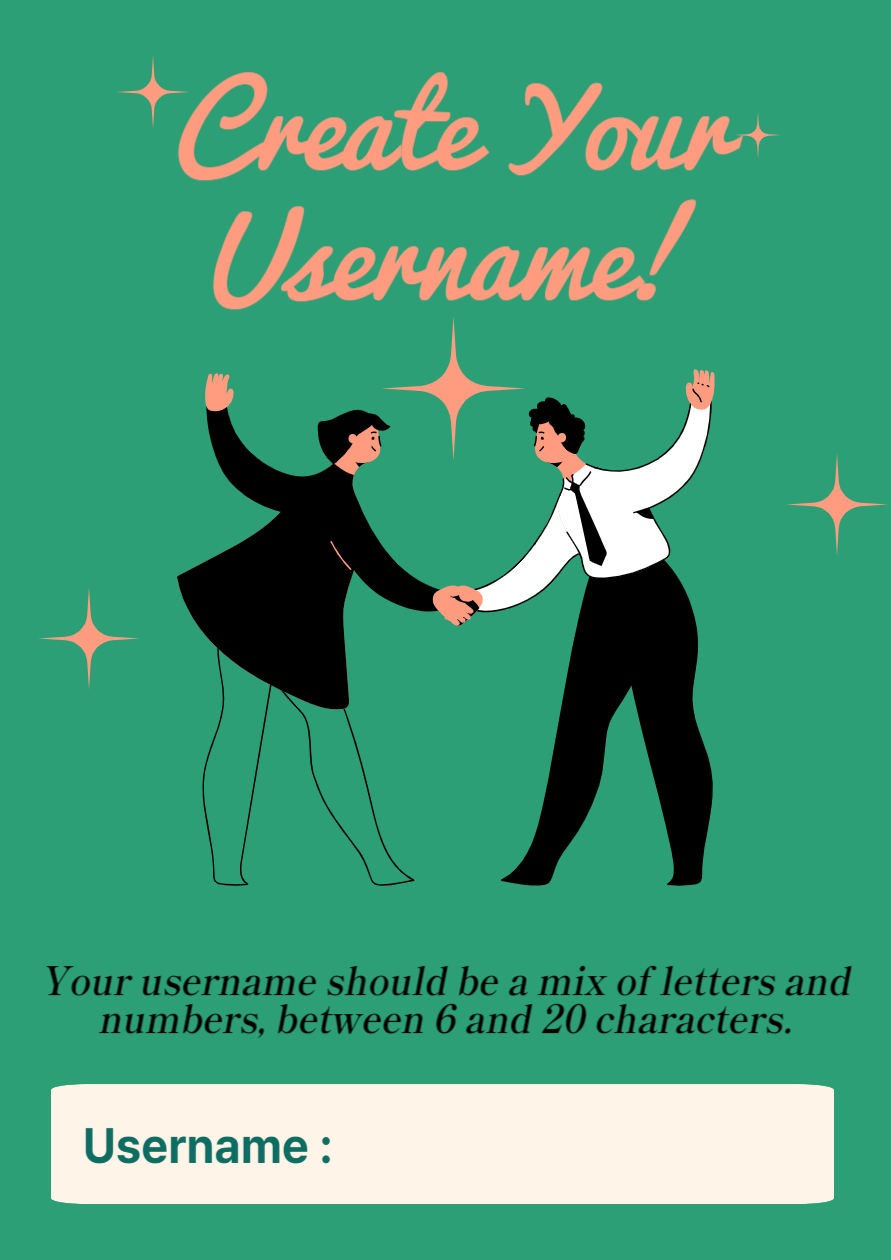
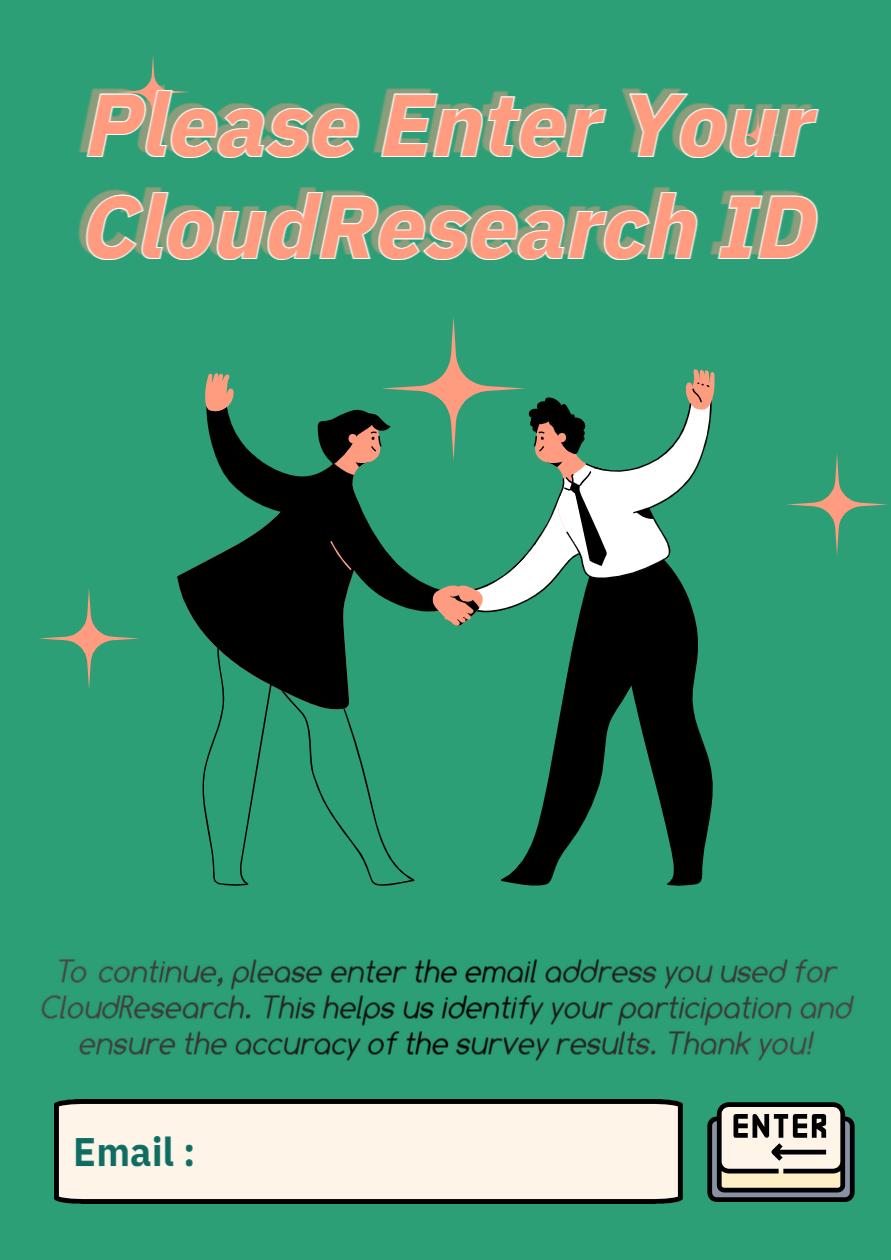
240729 commit

Changed region(s): [[0.0303, 0.7429, 0.9697, 0.9595], [0.0909, 0.0619, 0.9394, 0.2476]]

diff --git a/src/pages/Home.jsx b/src/pages/Home.jsx
@@ -61,12 +61,19 @@ function Home() {
         return regex.test(nickname);
     };
     const handleEnter = () => {
-        if (validateNickname(nickname)) {
+        // if (validateNickname(nickname)) {
+        //     console.log('Valid nickname:', nickname);
+        //     // 추가적인 처리 로직 추가 가능
+        //     setModalOpen(false);
+        // } else {
+        //     alert('Nickname must be 5-20 characters long and include both letters and numbers.');
+        // }
+        if (nickname.length !== 0) {
             console.log('Valid nickname:', nickname);
             // 추가적인 처리 로직 추가 가능
             setModalOpen(false);
         } else {
-            alert('Nickname must be 5-20 characters long and include both letters and numbers.');
+            alert('Please enter your nickname.');
         }
     };
 
@@ -123,9 +130,6 @@ function Home() {
         }
     }
 
-
-
-
     return (
         <div className="w-full">
             {postArr.map((item, idx) => {
@@ -135,7 +139,7 @@ function Home() {
                             <div className={"flexRow flexAlign-column"}>
                                 {item === "ad" ? <img src={`/images/advertise_img.png`} style={{width:"40px", height:"40px"}}/> : <img src={`/images/profile${item.slice(-1)}.png`} style={{width:"40px", height:"40px"}}/>}
                                 <div className={"w6"}/>
-                                <div style={{fontSize:"14px", fontWeight:"500", color:"#000"}}>{item === "post001" ? "Jennie_99" : item === "post002" ? "Sarah_Writes" : item === 'post003' ? "RockinJake11" : "advertisement" + randomInt}</div>
+                                <div style={{fontSize:"14px", fontWeight:"500", color:"#000"}}>{item === "post001" ? "RockinJake11" : item === "post002" ? "Jennie_99" : item === 'post003' ? "Sarah_Writes" : "advertisement" + randomInt}</div>
                             </div>
                             <img src={"/images/Group.svg"}/>
                         </div>
@@ -170,7 +174,19 @@ function Home() {
                                     randomInt={randomInt}
                                 />
                             :
-                            <img src={`/images/${item}.png`}/>
+                            <img
+                                src={`/images/${item}.png`}
+                                className={"cursor"}
+                                onClick={() => {
+                                    const fields = {
+                                        ad_name: item,
+                                        nickname: nickname,
+                                        is_pop_up: false,
+                                        is_button: false
+                                    };
+                                    addRecordToAirtable(fields);
+                                }}
+                            />
                         }
                         <div className={"h10"}/>
                         <div className={"flexRow flexAlign-between"} style={{padding:"0px 16px"}}>
@@ -216,28 +232,27 @@ function Home() {
                         placeholder="Enter nickname"
                         style={{
                             position: 'absolute',
-                            bottom: '7%',
-                            left: '40%',
+                            bottom: '6%',
+                            left: '24%',
                             padding: '10px',
                             fontSize: '16px',
                             width: '80%',
-                            maxWidth: '160px',
+                            maxWidth: '240px',
                             boxSizing: 'border-box',
                         }}
                     />
-                    <button
+                    <div
                         onClick={handleEnter}
                         style={{
                             position: 'absolute',
-                            bottom: '7%',
-                            left: '74%',
-                            padding: '10px 20px',
-                            fontSize: '16px',
+                            bottom: '6%',
+                            left: '80%',
+                            width:"16%",
+                            height:"8%",
                             cursor: 'pointer',
+                            backgroundColor:"none",
                         }}
-                    >
-                        Enter
-                    </button>
+                    />
                 </div>
             </ReactModal>
             <ReactModal

diff --git a/src/components/VideoComponent.jsx b/src/components/VideoComponent.jsx
@@ -1,6 +1,6 @@
 import React, { useState, useRef, useEffect } from 'react';
 
-const VideoComponent = ({ fields, addRecordToAirtable, setModalOpen2, randomInt, modalOpen }) => {
+const VideoComponent = ({ fields, addRecordToAirtable, setModalOpen2, randomInt, modalOpen}) => {
     const videoRef = useRef(null);
     const [isVideoEnded, setIsVideoEnded] = useState(false);
 
@@ -61,8 +61,9 @@ const VideoComponent = ({ fields, addRecordToAirtable, setModalOpen2, randomInt,
         setIsVideoEnded(true);
     };
 
+
     return (
-        <div style={{ position: 'relative' }}>
+        <div style={{ position: 'relative' }} onClick={()=>{if(isVideoEnded) addRecordToAirtable({...fields, "ad_name": `ad-${randomInt}-videoEnd`});}}>
             <video
                 ref={videoRef}
                 width="100%"
